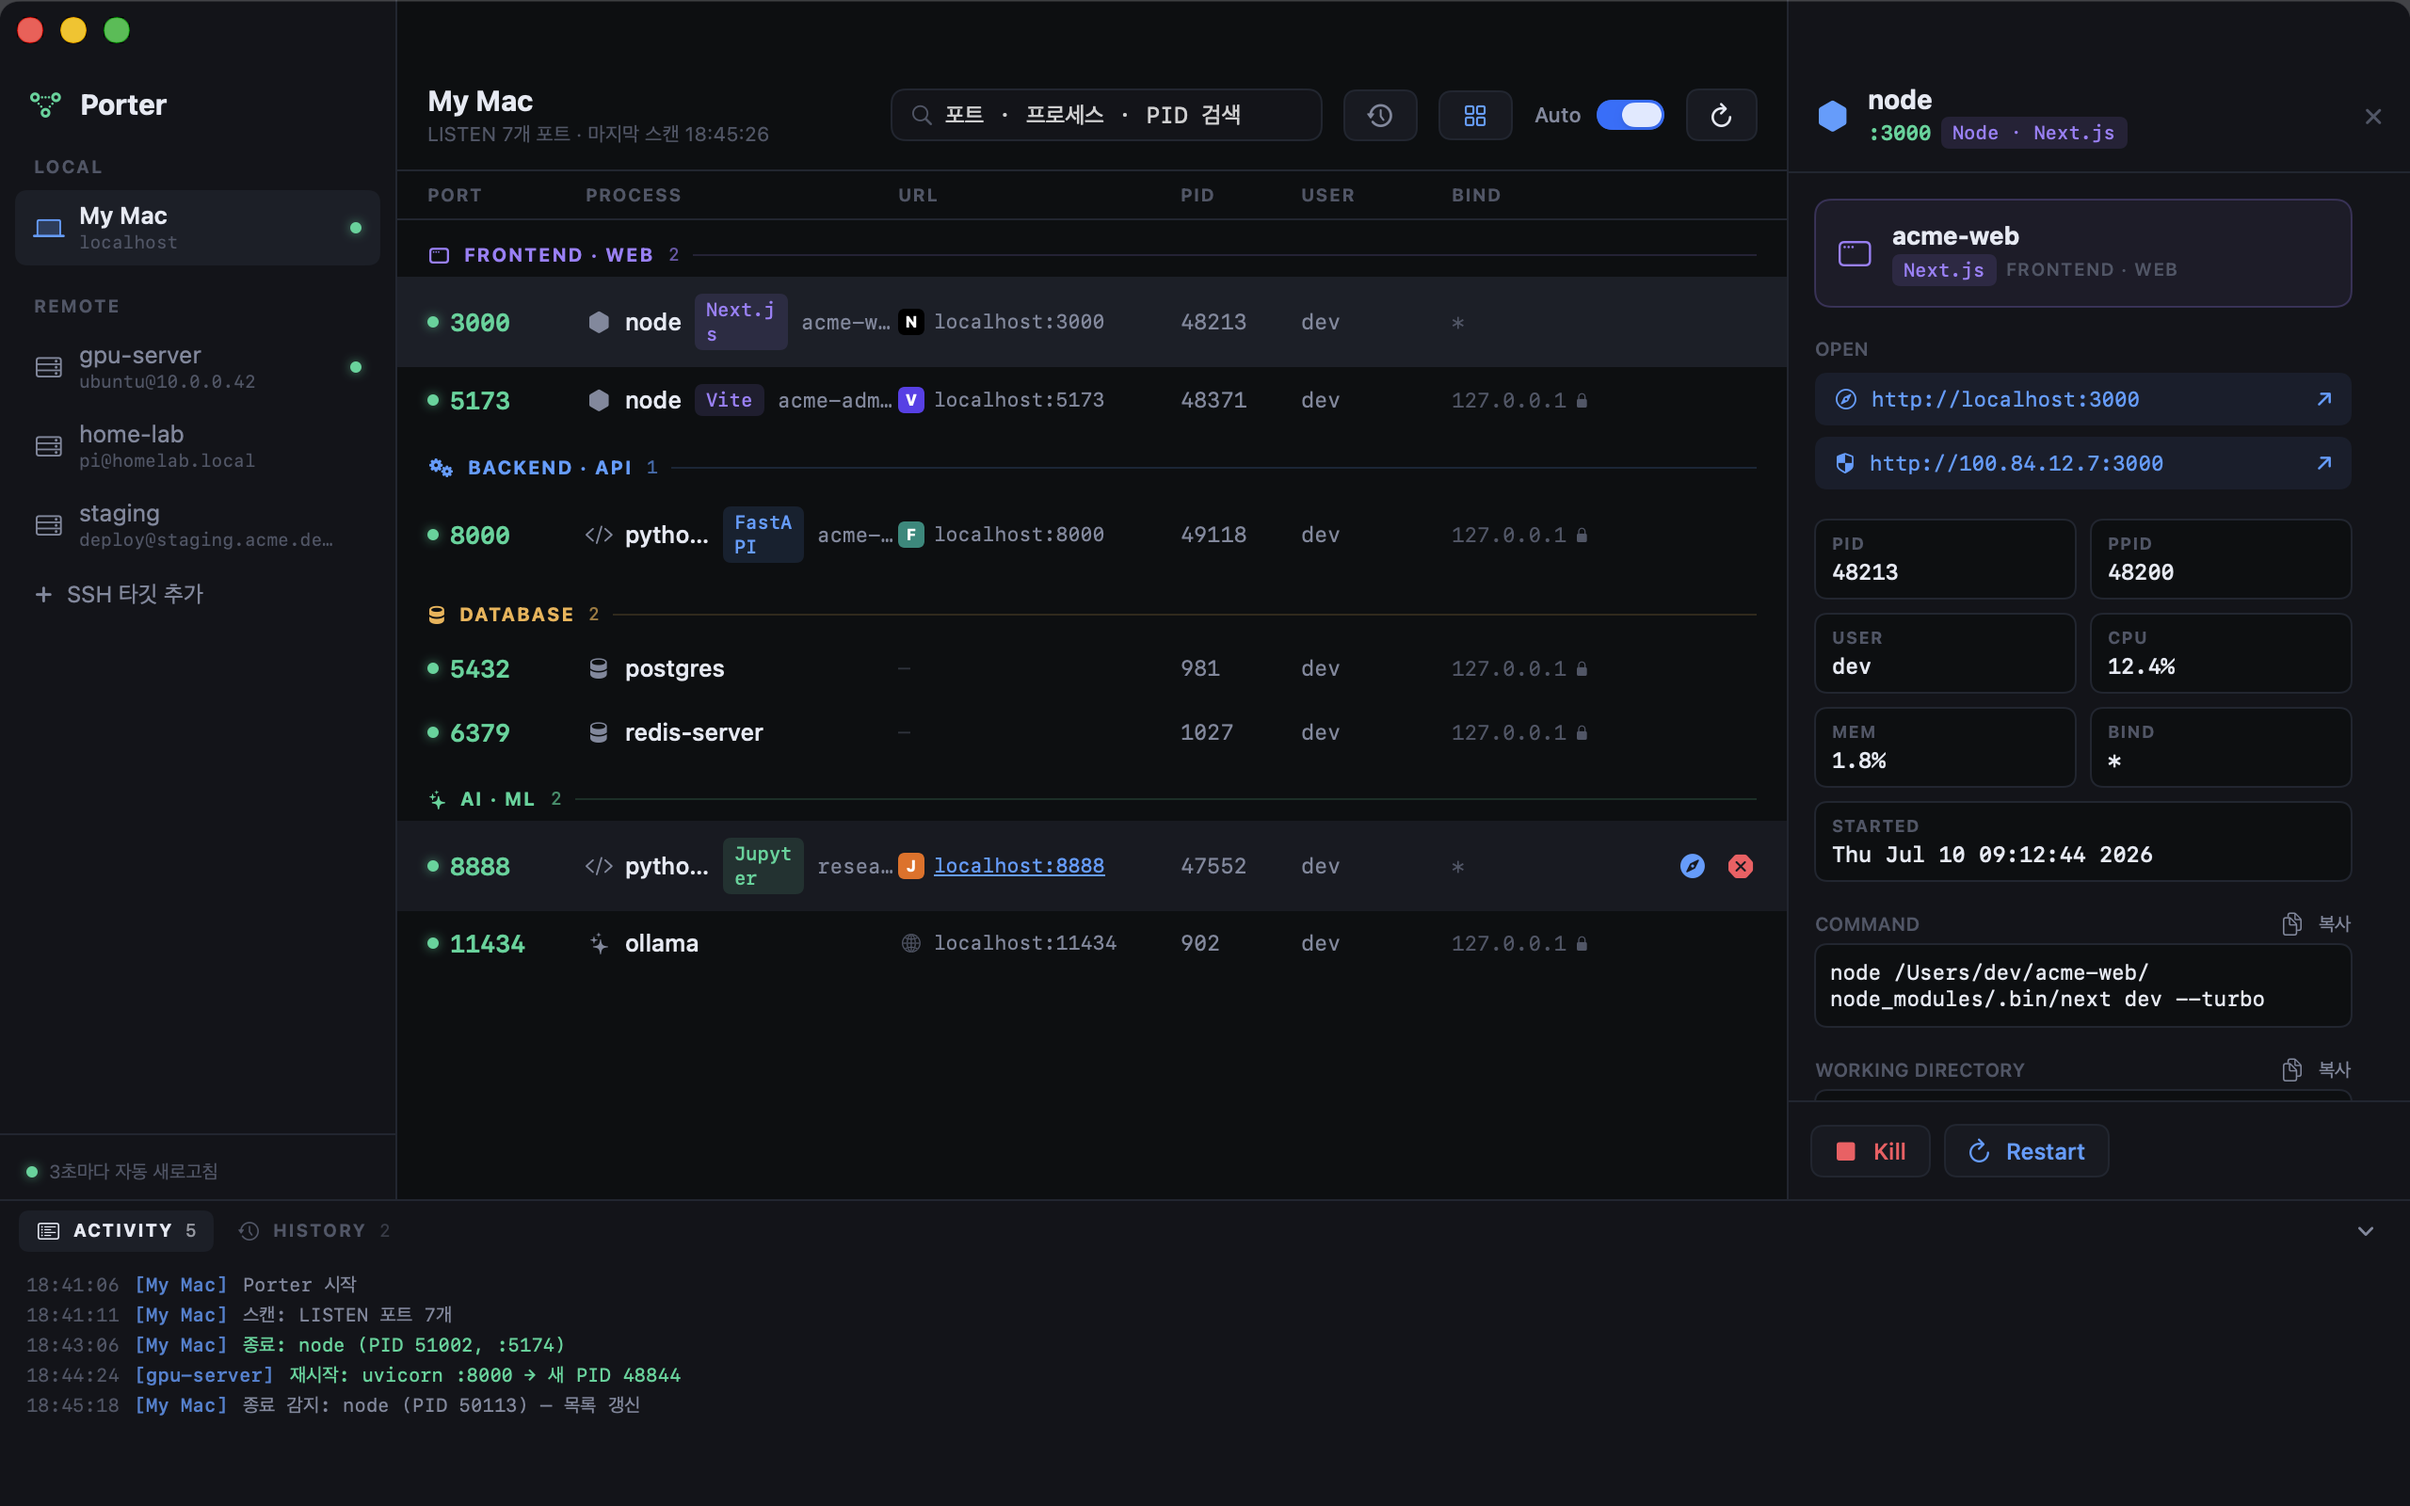
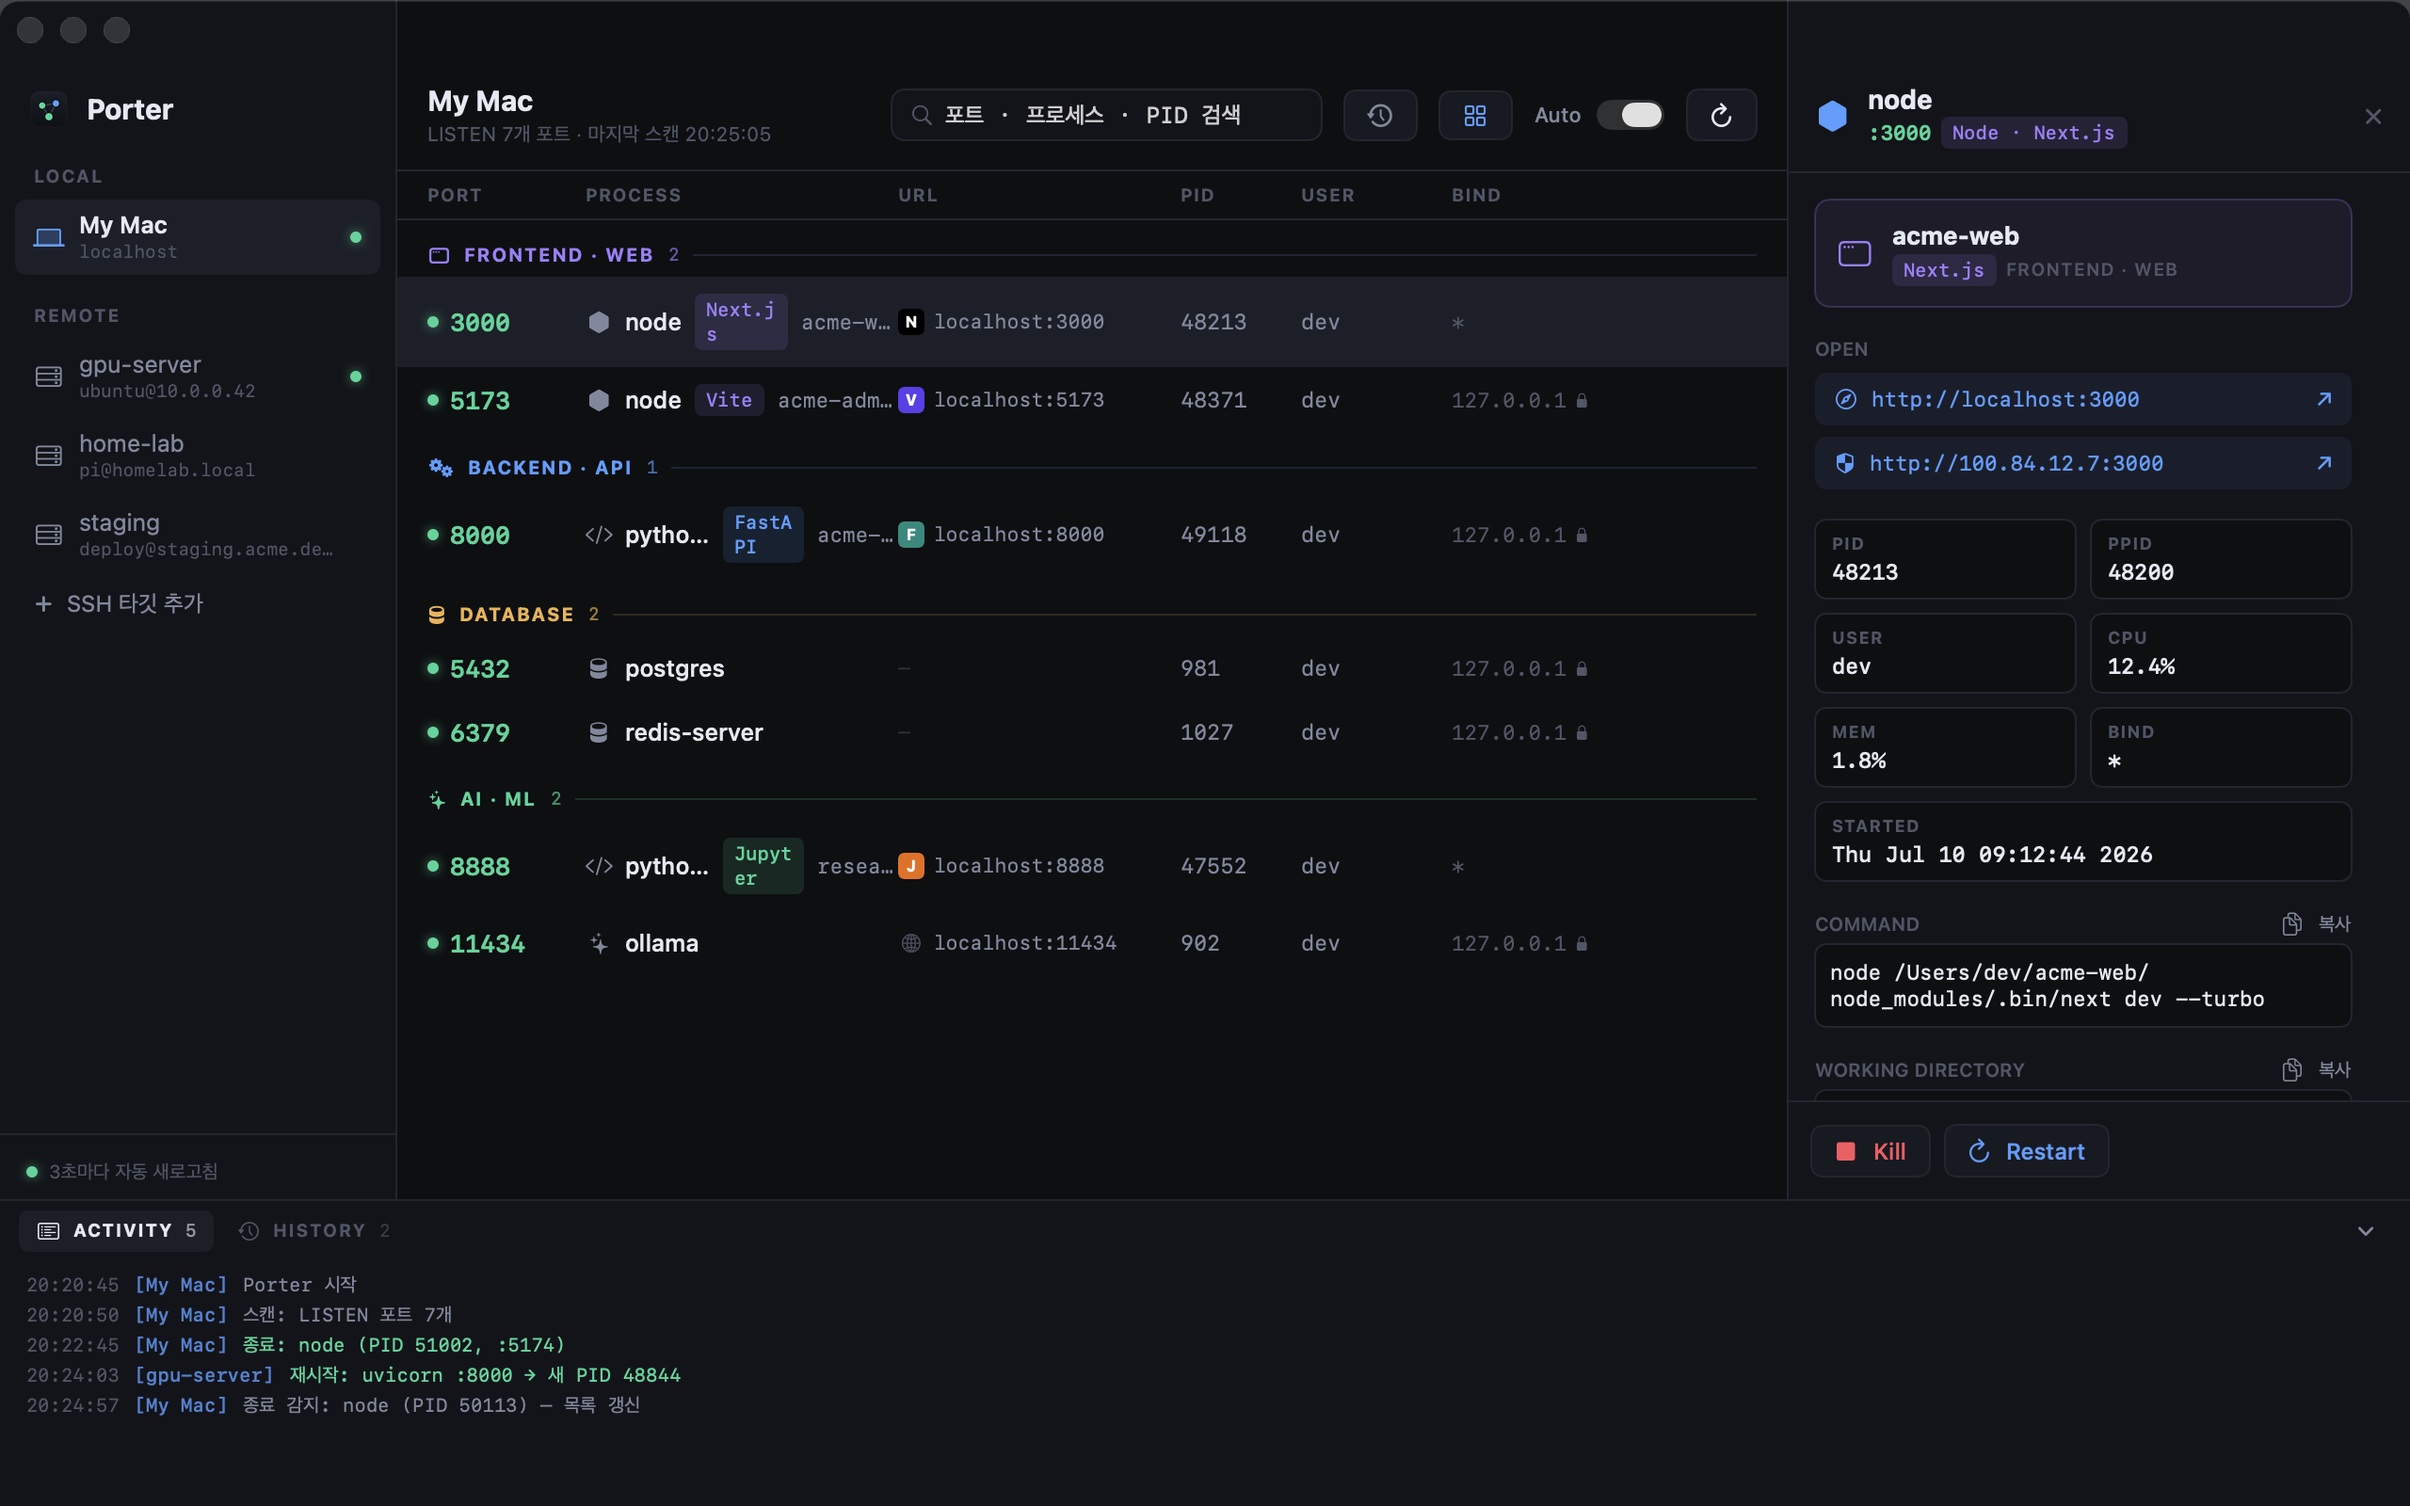
feat: 사이드바 헤더에 실제 앱 로고 표시
- SF Symbol 대신 번들 AppIcon.png(생성된 플랫 아이콘)를 24px로 렌더링
- 리소스 누락 시 기존 심볼로 폴백, 스크린샷 갱신

diff --git a/Sources/Porter/UI/SidebarView.swift b/Sources/Porter/UI/SidebarView.swift
@@ -13,11 +13,18 @@ struct SidebarView: View {
 
     var body: some View {
         VStack(alignment: .leading, spacing: 0) {
-            // App mark
+            // App mark — the real app icon, not a symbol stand-in
             HStack(spacing: 8) {
-                Image(systemName: "point.3.connected.trianglepath.dotted")
-                    .font(.system(size: 15, weight: .semibold))
-                    .foregroundStyle(Theme.green)
+                if let logo = AppAssets.logo {
+                    Image(nsImage: logo)
+                        .resizable()
+                        .interpolation(.high)
+                        .frame(width: 24, height: 24)
+                } else {
+                    Image(systemName: "point.3.connected.trianglepath.dotted")
+                        .font(.system(size: 15, weight: .semibold))
+                        .foregroundStyle(Theme.green)
+                }
                 Text("Porter")
                     .font(Theme.ui(15, weight: .bold))
                     .foregroundStyle(Theme.textPrimary)

diff --git a/Sources/Porter/UI/Theme.swift b/Sources/Porter/UI/Theme.swift
@@ -1,4 +1,16 @@
+import AppKit
 import SwiftUI
+
+/// Bundled brand assets (SPM resources).
+enum AppAssets {
+    /// The generated flat app icon — same artwork as the Dock/.icns icon.
+    static let logo: NSImage? = {
+        guard let url = Bundle.module.url(forResource: "AppIcon", withExtension: "png") else {
+            return nil
+        }
+        return NSImage(contentsOf: url)
+    }()
+}
 
 /// Orca-inspired dark developer palette: deep navy-black canvas, low-chroma
 /// panels, signal green/blue accents, red reserved for destructive actions.
